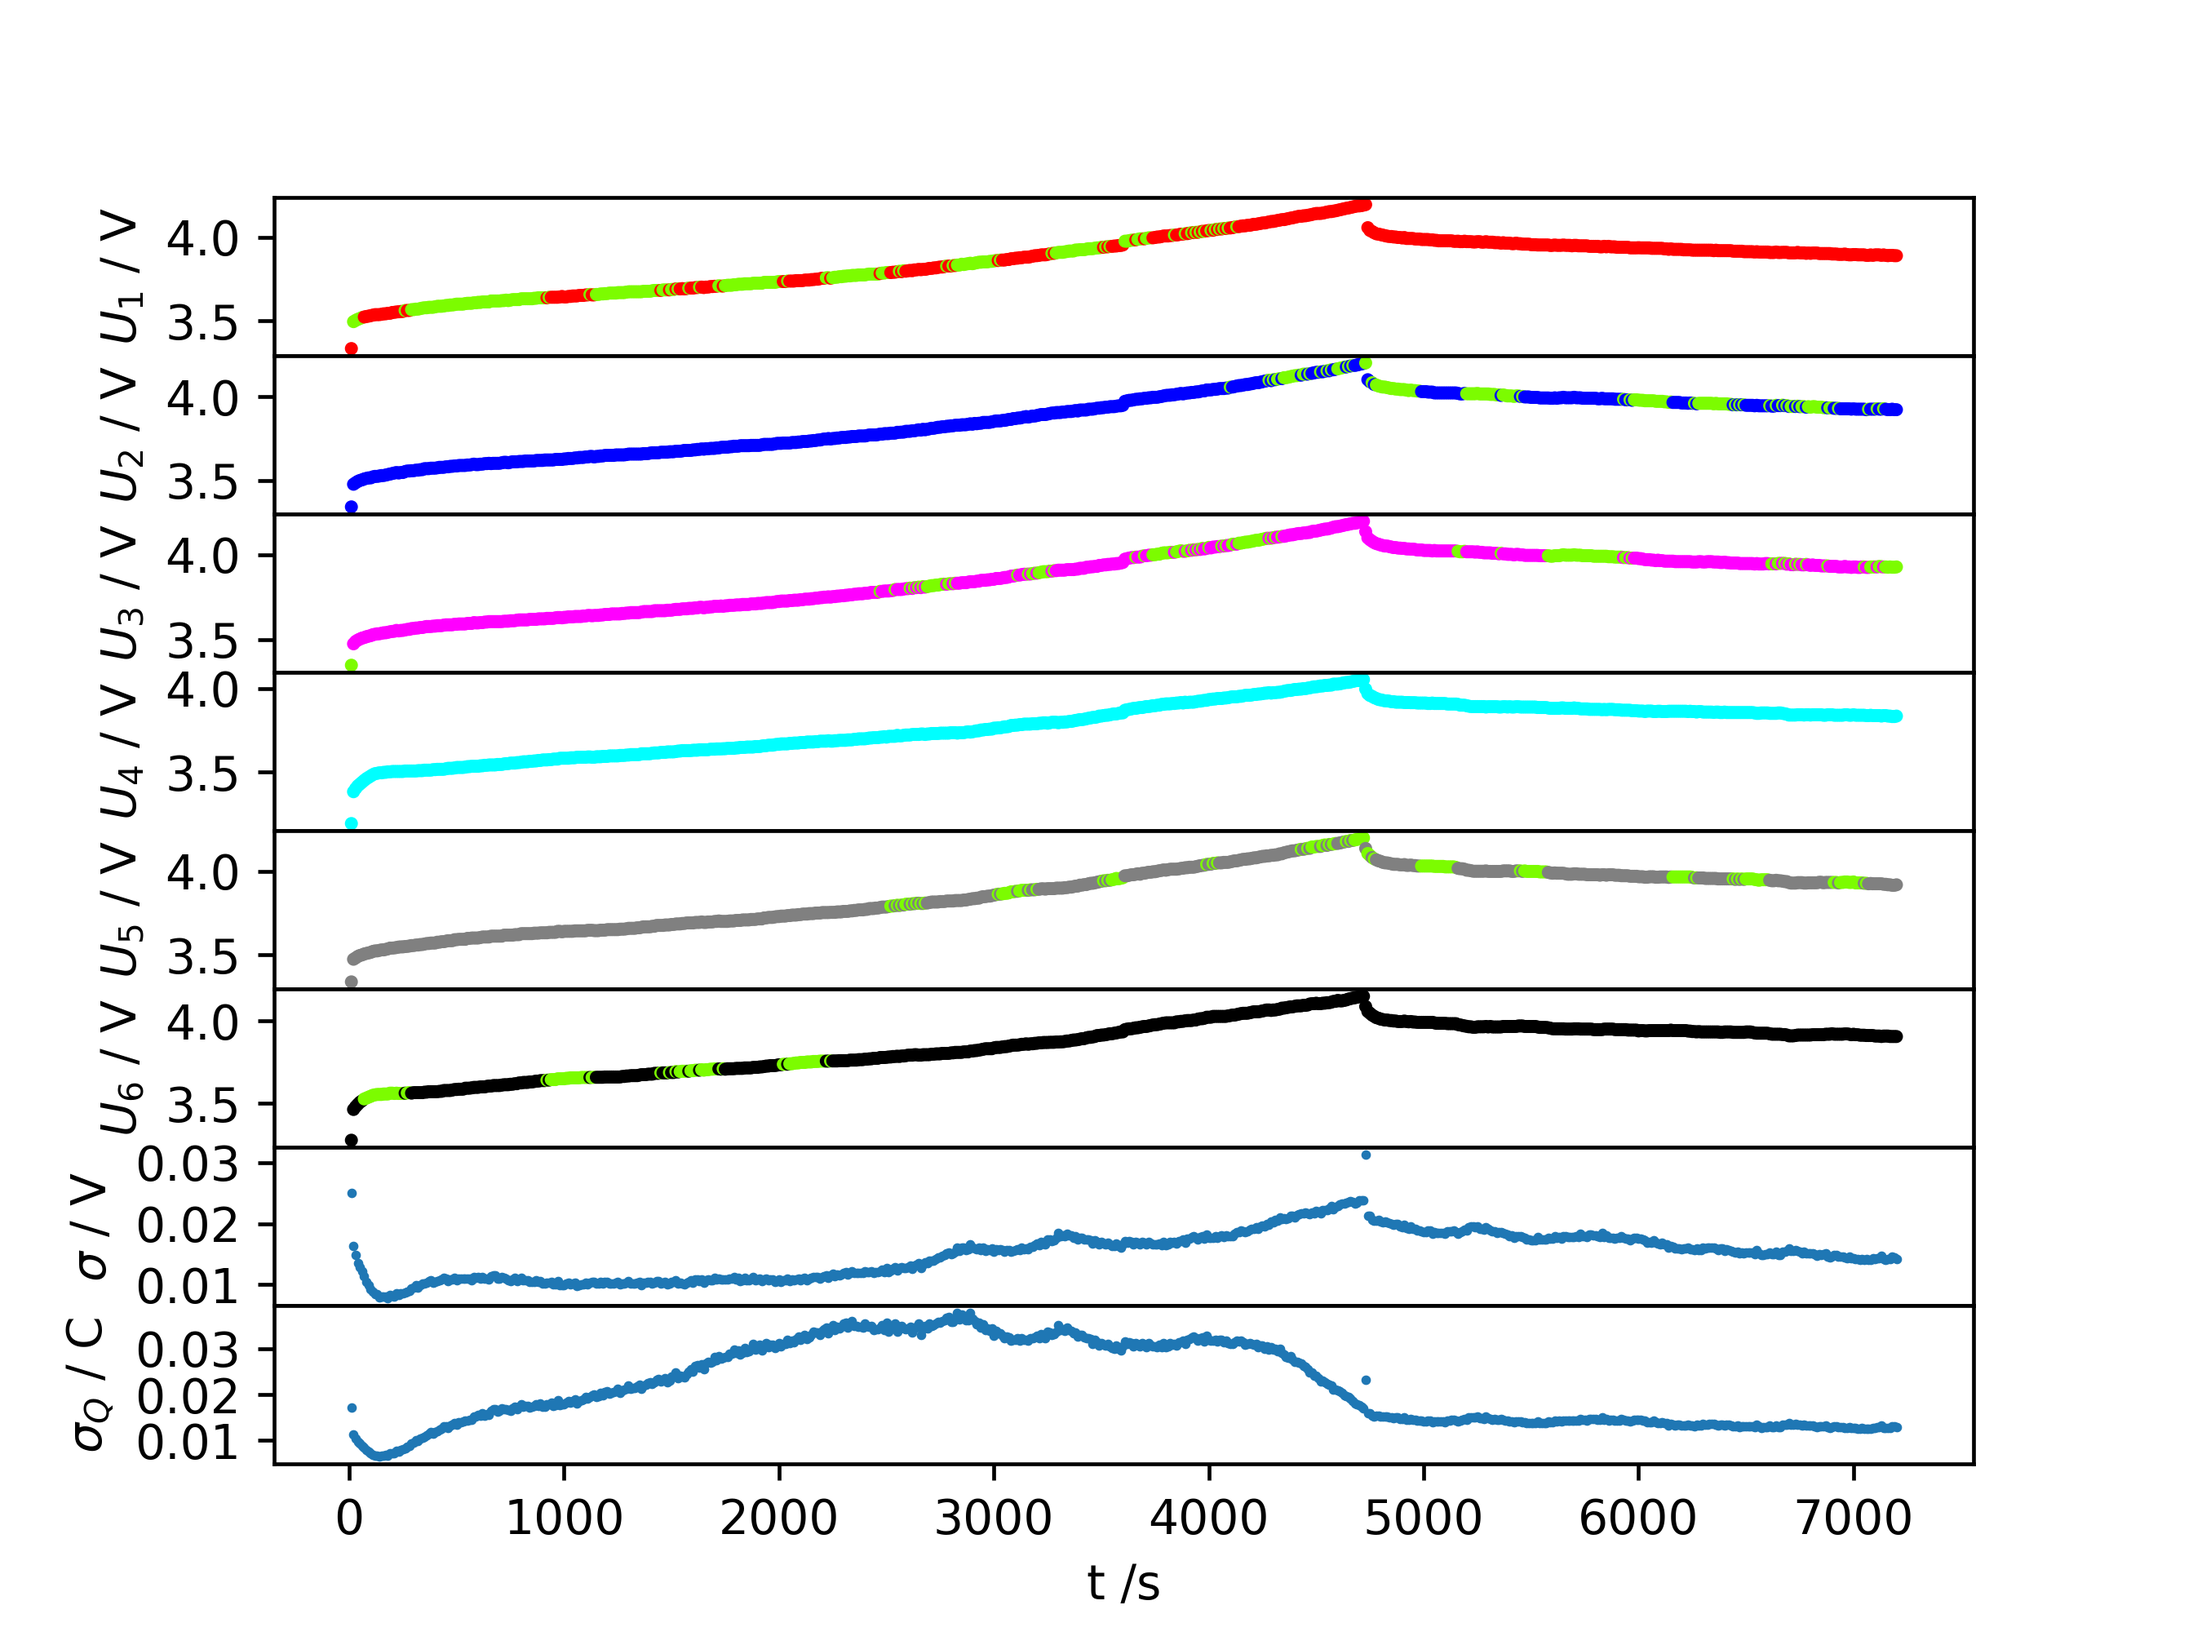
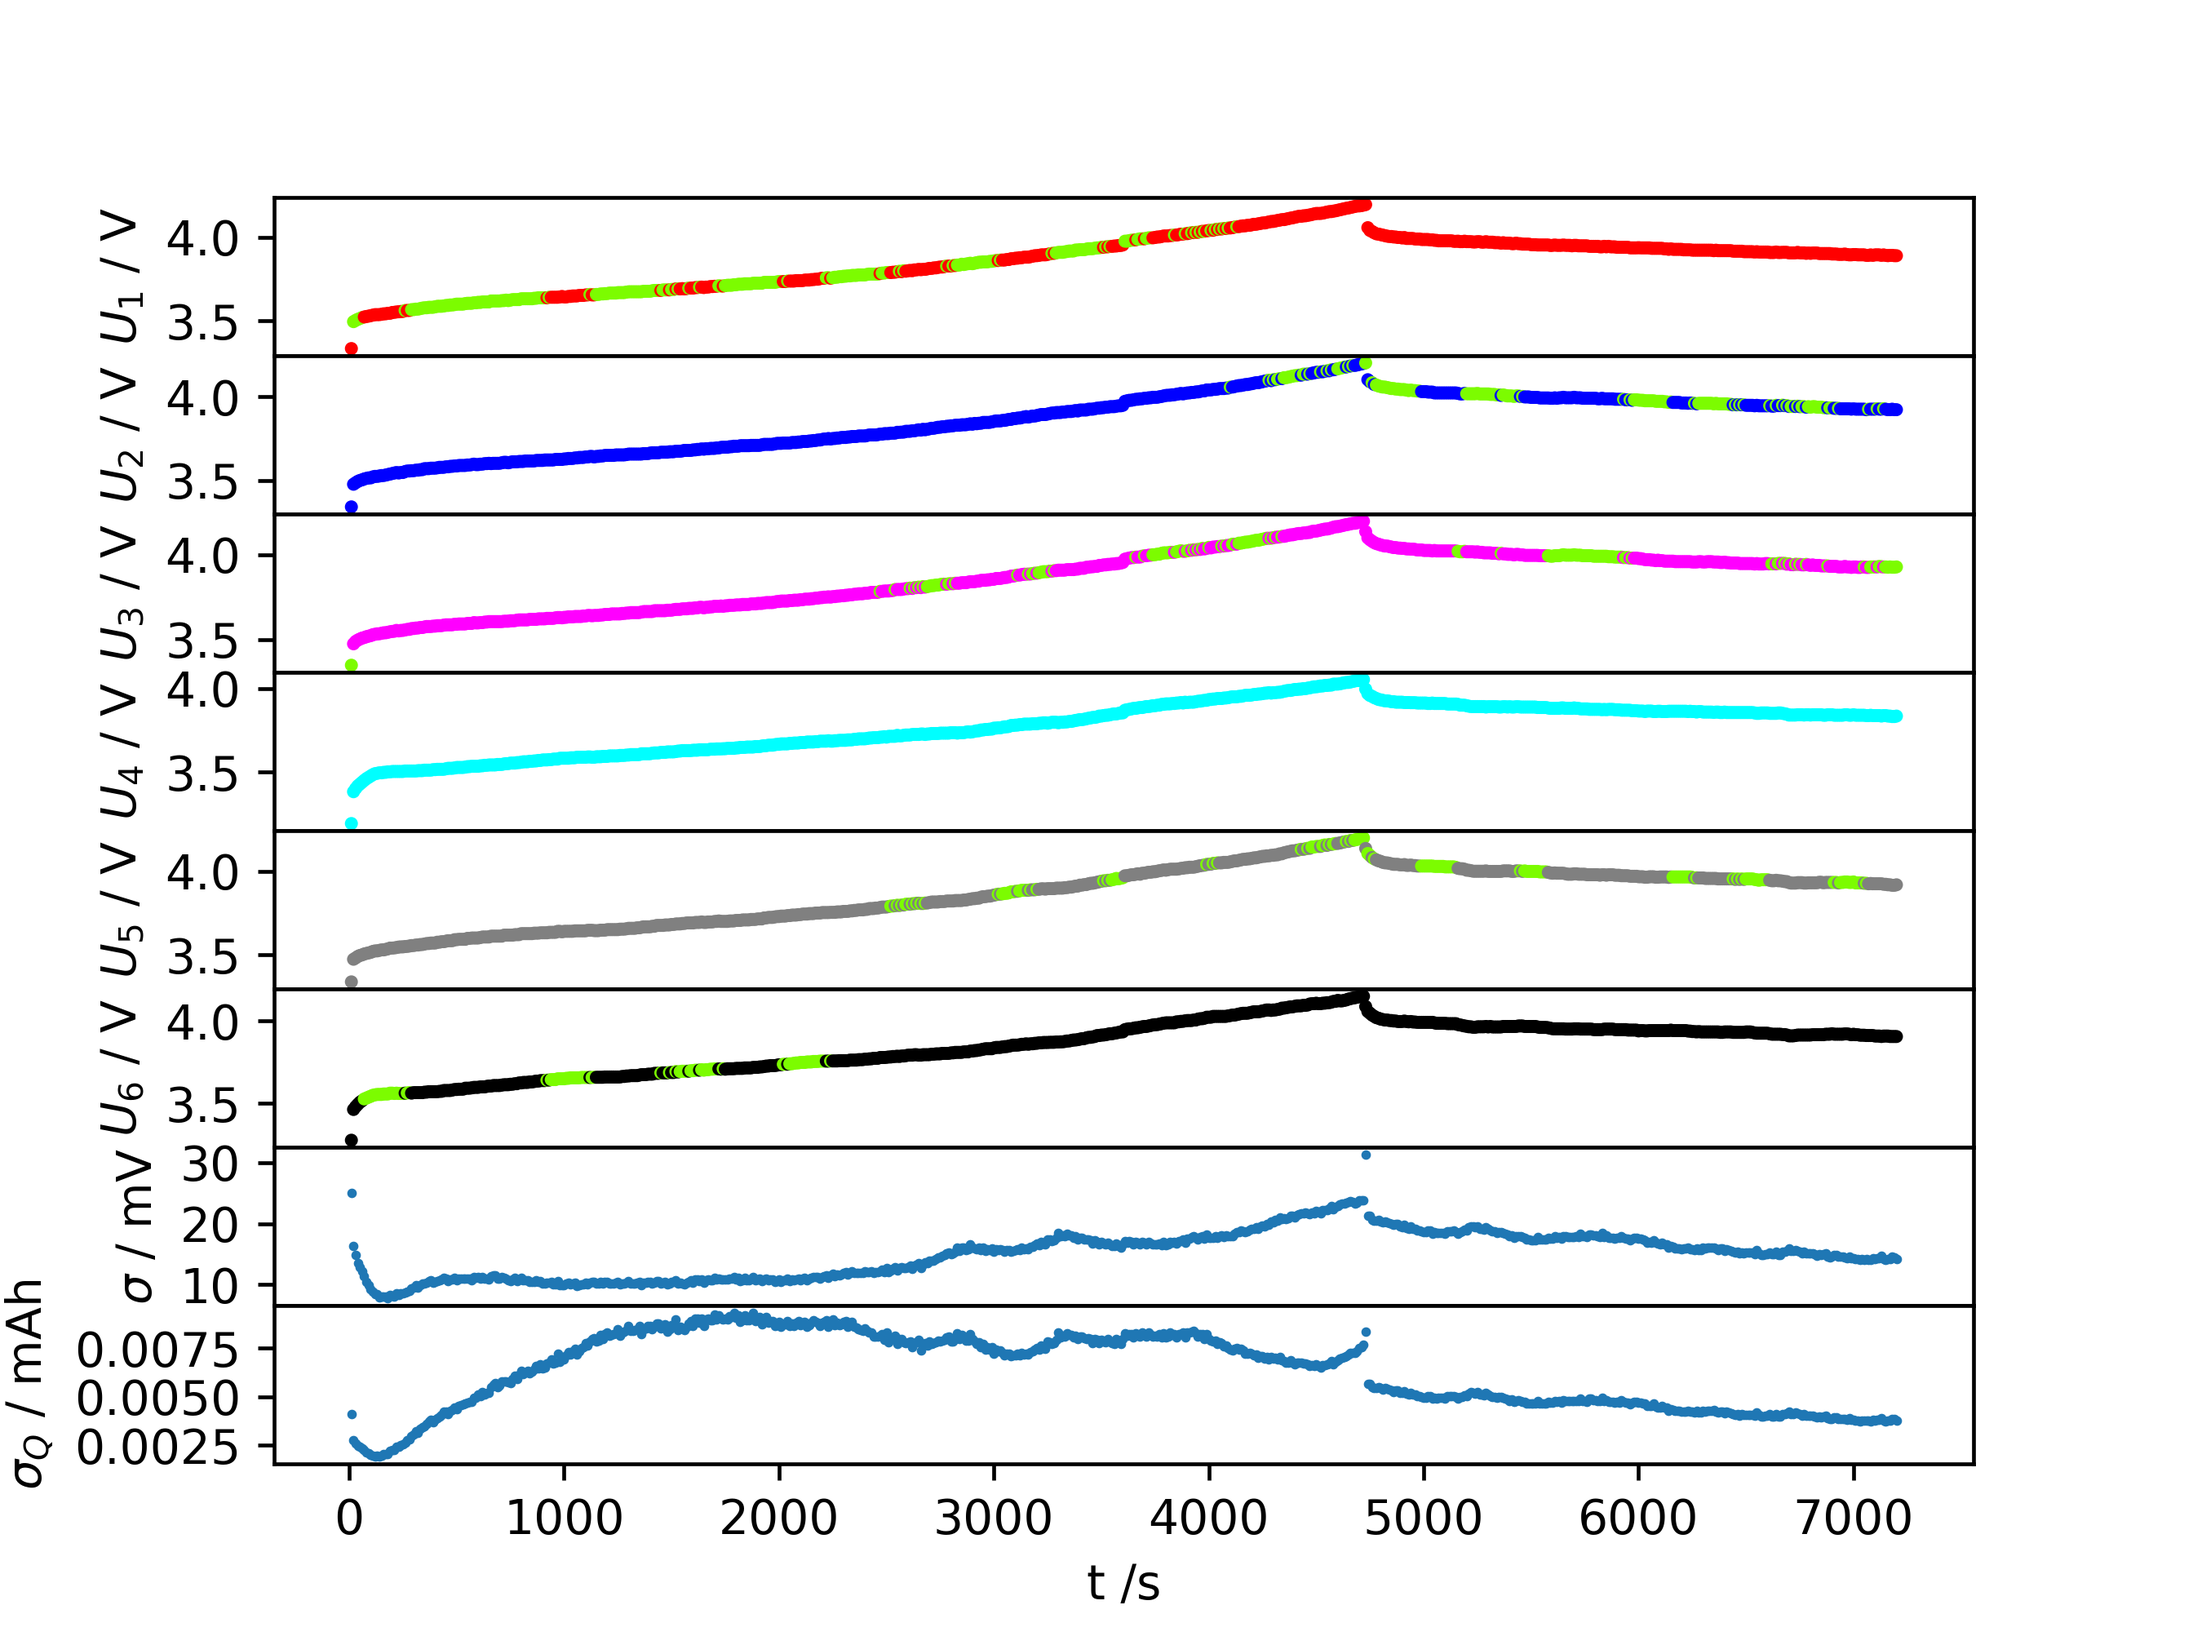
Hopefully last one

Changed region(s): [[0.1875, 0.7812, 0.875, 0.875], [0.0, 0.6875, 0.125, 0.9062], [0.1562, 0.875, 0.1875, 0.9062]]

diff --git a/bms_li-ion.py b/bms_li-ion.py
@@ -15,9 +15,9 @@ colormap6 = ListedColormap(["black","lawngreen"])
 
 #funkcja obliczająca wartości wielomianu i pochodnej
 def bat_poly_calc(x, c):
-    return c[0] + c[1]*x+c[2]*x**2+c[3]*x**3+c[4]*x**4+c[5]*x**5+c[6]*x**6+c[7]*x**7+c[8]*x**8+c[9]*x**9
+    return c[0] + c[1]*x+c[2]*x**2+c[3]*x**3+c[4]*x**4+c[5]*x**5+c[6]*x**6+c[7]*x**7+c[8]*x**8+c[9]*x**9+c[10]*x**10+c[11]*x**11
 def bat_diff_calc(x, c):
-    return (c[1]+2*c[2]*x+3*c[3]*x**2+4*c[4]*x**3+5*c[5]*x**4+6*c[6]*x**5+7*c[7]*x**6+8*c[8]*x**7+9*c[9]*x**8)
+    return (c[1]+2*c[2]*x+3*c[3]*x**2+4*c[4]*x**3+5*c[5]*x**4+6*c[6]*x**5+7*c[7]*x**6+8*c[8]*x**7+9*c[9]*x**8+10*c[10]*x**9+11*c[11]*x**10)
 
 
 bat_time = np.linspace(10,7200,720) #BATtery_time - całk. czas ipeh1+ipeh2
@@ -36,26 +36,27 @@ plt.scatter(bat_time, bat_data.U5, s=2, c="gray", label='U5')
 plt.scatter(bat_time, bat_data.U6, s=2, c="black", label='U6')
 plt.xlabel("t [s]")
 plt.ylabel("U [V]")
+plt.grid(color='r', linestyle='-', linewidth=0.1)
 plt.legend(loc='best')
 plt.savefig('Lion_voltages.png', dpi=420)
 
 #krzywe ładowania
-bat_ref_1C = pd.read_csv('NMC_2C.csv', sep='; ',decimal=',') #krzywa referencyjna 1C
+bat_ref_1C = pd.read_csv('NMC_01C_v2.csv', sep='; ',decimal=',') #krzywa referencyjna 1C
 bat_ref_1C["U"] = bat_ref_1C["U"].values[::-1]
 bat_ref_1C["Q"] = bat_ref_1C["Q"].values*0.01
-coeffs_1C = np.polynomial.polynomial.polyfit(bat_ref_1C.Q,bat_ref_1C.U,9) #dopasowanie wielomianu
+coeffs_1C = np.polynomial.polynomial.polyfit(bat_ref_1C.Q,bat_ref_1C.U,11) #dopasowanie wielomianu
 
 
 bat_ref_02C = pd.read_csv('NMC_02C.csv', sep='; ',decimal=',') #krzywa referencyjna 0,2C
 bat_ref_02C["Q"] = bat_ref_02C["Q"].values[::-1]
 bat_ref_02C["Q"] = bat_ref_02C["Q"].values*0.01
-coeffs_02C = np.polynomial.polynomial.polyfit(bat_ref_02C.Q,bat_ref_02C.U,9) #dopasowanie wielomianu
+coeffs_02C = np.polynomial.polynomial.polyfit(bat_ref_02C.Q,bat_ref_02C.U,11) #dopasowanie wielomianu
 
 bat_data_charge = bat_data[:472] #cięcie na część ładowania i rozładowania
 bat_data_discharge = bat_data[472:]
 bat_data_discharge = bat_data_discharge.reset_index(drop=True)
 
-bat_data_charge['Q'] = (630+(bat_data_charge.index+1)*10*5000/3600)/8400 #przeliczanie kolumny z ładunkiem
+bat_data_charge['Q'] = ((bat_data_charge.index+1)*10*5000/3600)/8400 + 0.075 #przeliczanie kolumny z ładunkiem
 bat_data_discharge['Q'] = (8400-(bat_data_discharge.index+1)*10*200/3600)/8400 - 0.075
 
 print(bat_data_charge.Q)
@@ -66,6 +67,10 @@ bat_data_discharge['StdevCh'] = bat_data_discharge.Stdev/bat_diff_calc(bat_data_
 bat_data = bat_data_charge  #końcowe sumowanie danych
 bat_data = bat_data.append(bat_data_discharge)
 bat_mobil = 42
+
+
+bat_data.StdevCh = bat_data.StdevCh*10/36
+bat_data.Stdev = bat_data.Stdev*1000
 
 #wykres
 fig, axs = plt.subplots(8,sharex=True, gridspec_kw={'hspace': 0})
@@ -83,8 +88,8 @@ axs[2].set(xlabel='$t$ / s', ylabel='$U_3$ / V')
 axs[3].set(xlabel='$t$ / s', ylabel='$U_4$ / V')
 axs[4].set(xlabel='$t$ / s', ylabel='$U_5$ / V')
 axs[5].set(xlabel='$t$ / s', ylabel='$U_6$ / V')
-axs[6].set(xlabel='$t$ / s', ylabel='$\sigma$ / V')
-axs[7].set(xlabel='$t$ / s', ylabel='$\sigma_Q$ / C')
+axs[6].set(xlabel='$t$ / s', ylabel='$\sigma$ / mV')
+axs[7].set(xlabel='$t$ / s', ylabel='$\sigma_Q$ / mAh')
 plt.xlabel("t /s")
 plt.savefig('Lion_multiplot.png', dpi=420)
 plt.show()
